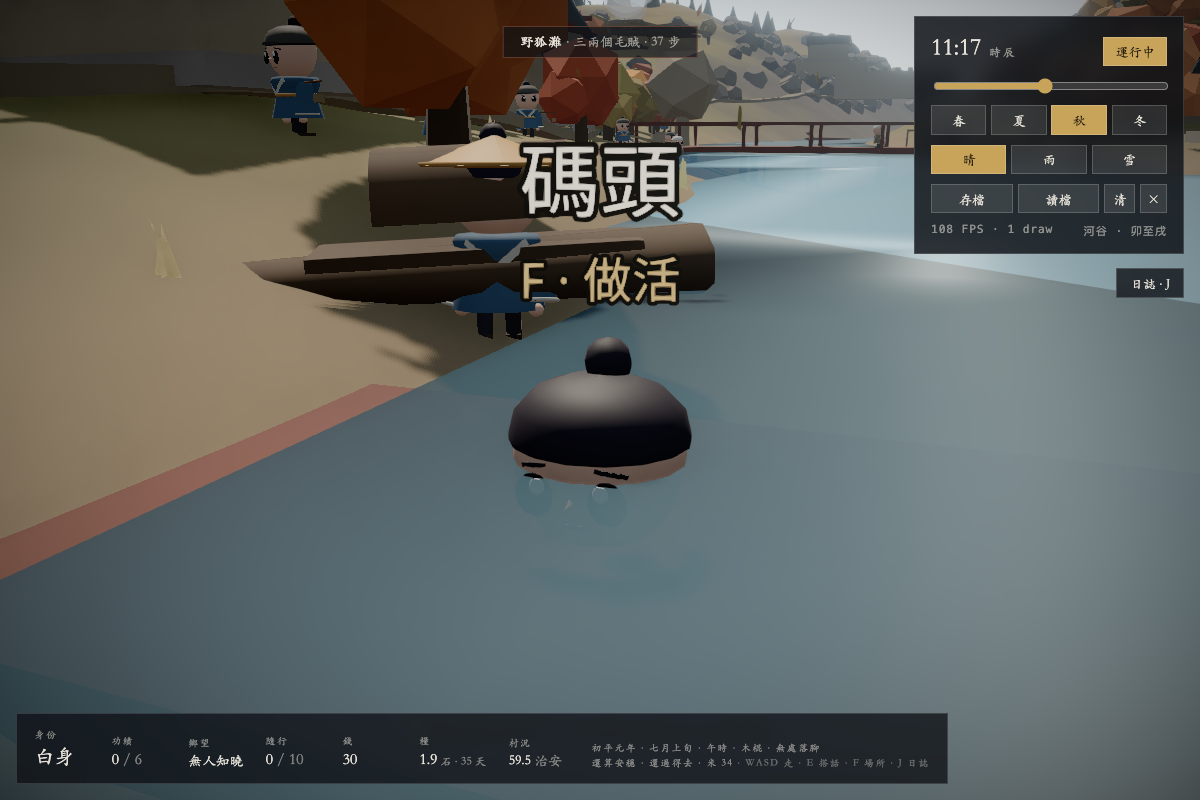
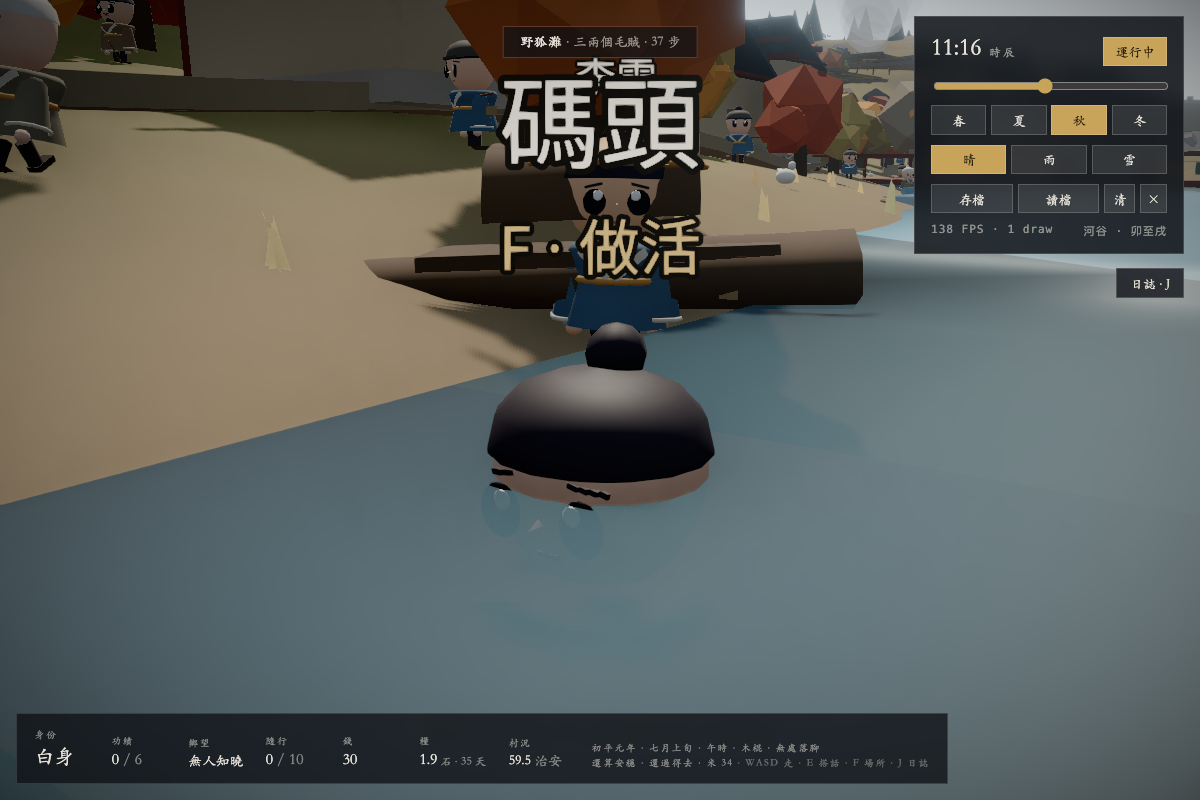
臉不再是同一張:每人一個膚色,眼距眉高嘴寬按種子微調
髮式衣色都分開了,可是四十張臉一個色 —— 遠看還是一批人。膚色是「複製人」感裡
最說不出所以然的一條:你講不出哪裡不對,但就是覺得他們是同一個模子。

- SKINS 五個色是同一族的深淺。下田扛包的曬得黑、市面上的白些、老人褪成灰黃,
  順帶把「行當寫在身上」延伸到臉上。賊比村民黑一號。
- 陰面(鼻樑側、耳廓)從膚色壓下來,不另配一個色 —— 兩邊各配一次遲早調得不一樣。
- 臉的種子(0..1)推四個微調量:眼距、眼大小、眉高、嘴寬。幅度都很小,
  因為這副臉的骨架是固定的 —— 差別要小到「說不出哪裡不一樣,但就是不同的人」。

膚色要一路帶到 bodyGeom(脖子)和 armGeom(手),不然臉是一個色、手是另一個。
八種變體八張臉 —— 不是四十張,但比一張強得多,而且不必為此把 InstancedMesh
拆成四十份。縣城的八個人、隨行的、陣上的三種都各自分開了。

Changed region(s): [[0.0, 0.0, 1.0, 0.7188], [0.8942, 0.0, 1.0, 0.25]]

diff --git a/src/world/figure.ts b/src/world/figure.ts
@@ -13,7 +13,21 @@ import { mergeGeometries } from 'three/examples/jsm/utils/BufferGeometryUtils.js
 
 export const ROBES = ['#4a6b52', '#6b5741', '#3f5568', '#6a6350'];
 const SKIN = new THREE.Color('#e8b494');
-const SKIN_D = new THREE.Color('#cf9878');       // 鼻樑側面、耳廓的陰面
+
+/**
+ * 膚色。
+ *
+ * 一整村同一張臉皮,是「複製人」感裡最說不出所以然的一條 ——
+ * 髮式衣色都不同了,可是四十張臉一個色,遠看還是一批人。
+ * 這幾個色是同一族的深淺:下田扛包的曬得黑,市面上的白些,
+ * 老人褪成灰黃 —— 順帶把「行當寫在身上」延伸到臉上。
+ */
+export const SKINS = ['#e8b494', '#dca97f', '#c9905f', '#efc0a3', '#d3a887'];
+
+/** 陰面(鼻樑側、耳廓)—— 從膚色壓下來,不另配一個色,免得兩邊調得不一樣。 */
+function shade(skin: THREE.Color): THREE.Color {
+  return skin.clone().multiplyScalar(0.78);
+}
 const HAIR = new THREE.Color('#241e26');
 const INK = new THREE.Color('#161018');
 export const TRIM = new THREE.Color('#b8863c');
@@ -258,7 +272,7 @@ function collarColor(robe: THREE.Color): THREE.Color {
  * 一條手臂 —— 原點在<b>肩</b>,往下垂。
  * 廣袖、袖緣、露在袖口外的手,一份幾何全帶著。
  */
-export function armGeom(robe: THREE.Color): THREE.BufferGeometry {
+export function armGeom(robe: THREE.Color, skin: THREE.Color = SKIN): THREE.BufferGeometry {
   const gs: THREE.BufferGeometry[] = [];
   const edge = collarColor(robe);
   gs.push(tint(at(lathe(SLEEVE_P, FIG_HR, ARM_L, 8), 0, -ARM_L, 0), robe));
@@ -268,7 +282,7 @@ export function armGeom(robe: THREE.Color): THREE.BufferGeometry {
   // 手擺在中軸上(不左右偏):一份幾何兩邊共用,偏了就得鏡像,
   // 而負縮放會把三角形的繞序翻過來,整條手臂的光就錯了
   gs.push(tint(at(new THREE.SphereGeometry(FIG_HR * 0.17, 7, 6),
-    0, FIG_HAND[1], FIG_HAND[2], 1, 0.9, 1.05), SKIN));
+    0, FIG_HAND[1], FIG_HAND[2], 1, 0.9, 1.05), skin));
   return mergeGeometries(gs, false)!;
 }
 
@@ -291,7 +305,7 @@ export function poseArm(
   o.scale.setScalar(scale);
 }
 
-export function bodyGeom(robe: THREE.Color) {
+export function bodyGeom(robe: THREE.Color, skin: THREE.Color = SKIN) {
   const gs: THREE.BufferGeometry[] = [];
   /*
    * 衣緣是<b>淺色</b>的,不是把袍色壓暗。
@@ -346,7 +360,7 @@ export function bodyGeom(robe: THREE.Color) {
 
   // 袖子不在這裡 —— 見 armGeom:會擺動的東西不能烘進身子
   gs.push(tint(at(new THREE.CylinderGeometry(FIG_HR * 0.32, FIG_HR * 0.32, FIG_HR * 0.40, 8),
-    0, FIG_BODY_H * 0.99, 0), SKIN));
+    0, FIG_BODY_H * 0.99, 0), skin));
   return mergeGeometries(gs, false)!;
 }
 
@@ -403,6 +417,13 @@ function faceStrip(o: {
  * 三十八個村民要是共用兩種頭,那不是一個村子,是一批複製人。
  */
 export interface HeadStyle {
+  /** 這個人的膚色。不給就用預設那一個。 */
+  skin?: THREE.Color;
+  /**
+   * 這張臉的種子(0..1)。眼距、眼大小、眉高、嘴寬按它微調 ——
+   * 同一副幾何,換一個數字就是另一個人。
+   */
+  face?: number;
   /** 斗笠 —— 下田扛包的戴。 */
   hat?: boolean;
   /** 白髮。 */
@@ -414,12 +435,22 @@ export interface HeadStyle {
 }
 
 export function headGeom(style: HeadStyle = {}) {
-  const { hat = false, old: oldHair = false, cloth = false, beard = false } = style;
+  const {
+    hat = false, old: oldHair = false, cloth = false, beard = false,
+    skin = SKIN, face = 0.5,
+  } = style;
+  const SKIN_D = shade(skin);
+  // 種子推出四個微調量。幅度都很小 —— 這副臉的骨架是固定的,
+  // 差別要小到「說不出哪裡不一樣,但就是不同的人」
+  const fGap = 0.40 + face * 0.06;              // 眼距
+  const fEye = 0.94 + face * 0.14;              // 眼大小
+  const fBrow = 0.19 + face * 0.07;             // 眉高
+  const fMouth = 0.17 + face * 0.07;            // 嘴寬
   const gs: THREE.BufferGeometry[] = [];
   const HAIR_C = oldHair ? new THREE.Color('#d6d0c4') : HAIR;
   const cy = FIG_HR * 0.84;
   const R = FIG_HR;
-  gs.push(tint(at(lathe(HEAD_P, R, R, 16), 0, cy, 0, 1, 1, FACE_SQUASH), SKIN));
+  gs.push(tint(at(lathe(HEAD_P, R, R, 16), 0, cy, 0, 1, 1, FACE_SQUASH), skin));
 
   /*
    * 五官的深度<b>從臉皮算,不是憑感覺</b>。
@@ -431,11 +462,11 @@ export function headGeom(style: HeadStyle = {}) {
    * 現在的規矩:先算這一件的半深,再讓它<b>只凸出 proud 那麼多</b>,
    * 其餘埋進臉裡。凸多少是一個看得懂的數字,而不是兩個座標湊出來的結果。
    */
-  const EYE_R = R * 0.225;
+  const EYE_R = R * 0.225 * fEye;
   const EYE_FLAT = 0.16;                       // 眼球壓扁到只剩這麼厚
   const eyeHalf = EYE_R * EYE_FLAT;
   for (const side of [-1, 1]) {
-    const ex = side * R * 0.42;
+    const ex = side * R * fGap;
     // 凸 0.02R:看得出是一顆球,又不至於頂出臉的側影
     gs.push(tint(at(new THREE.SphereGeometry(EYE_R, 10, 7),
       ex, cy - R * 0.10, faceZ(-0.10, R * 0.02 - eyeHalf), 1, 1.12, EYE_FLAT), INK));
@@ -444,7 +475,7 @@ export function headGeom(style: HeadStyle = {}) {
       new THREE.Color('#f2f0ea')));
     // 眉 —— 外高內低斜著一撇。<b>切成三小段</b>,一段一段貼上去
     gs.push(tint(faceStrip({
-      x: ex + side * R * 0.02, y: cy + R * (oldHair ? 0.25 : 0.22), py: 0.22,
+      x: ex + side * R * 0.02, y: cy + R * (oldHair ? fBrow + 0.03 : fBrow), py: 0.22,
       w: R * (oldHair ? 0.36 : 0.30), h: R * 0.052, d: R * 0.042,
       tilt: side * -0.22, R,
     }), oldHair ? new THREE.Color('#8e867c') : BROW));
@@ -453,7 +484,7 @@ export function headGeom(style: HeadStyle = {}) {
      * 而且要<b>貼著頭</b>:第一版擺在 0.97R、又往外撐,整隻耳朵浮在頭外面。
      */
     gs.push(tint(at(new THREE.SphereGeometry(R * 0.155, 6, 5),
-      side * R * 0.90, cy - R * 0.05, R * 0.03, 0.34, 1.05, 0.80), SKIN));
+      side * R * 0.90, cy - R * 0.05, R * 0.03, 0.34, 1.05, 0.80), skin));
     gs.push(tint(at(new THREE.SphereGeometry(R * 0.06, 5, 4),
       side * R * 0.95, cy - R * 0.05, R * 0.03, 0.30, 0.90, 0.55), SKIN_D));
   }
@@ -476,11 +507,11 @@ export function headGeom(style: HeadStyle = {}) {
    * 不能靠往上貼深色的小零件。
    */
   gs.push(tint(at(rot(new THREE.ConeGeometry(R * 0.115, R * 0.38, 3), -Math.PI * 0.56, 0, 0),
-    0, cy - R * 0.12, faceZ(-0.12, -R * 0.045)), SKIN));
+    0, cy - R * 0.12, faceZ(-0.12, -R * 0.045)), skin));
   // 口 —— 一道短橫,細而不豔。不畫笑也不畫哭,留白比表情耐看
   gs.push(tint(faceStrip({
     x: 0, y: cy - R * 0.46, py: -0.46,
-    w: R * 0.20, h: R * 0.042, d: R * 0.045, tilt: 0, R,
+    w: R * fMouth, h: R * 0.042, d: R * 0.045, tilt: 0, R,
   }), LIP));
 
   /*

diff --git a/src/world/Crowd.tsx b/src/world/Crowd.tsx
@@ -3,7 +3,7 @@ import { useFrame } from '@react-three/fiber';
 import * as THREE from 'three';
 import { groundAt, rng, slideMove, dryLandNear } from './field';
 import {
-  bodyGeom, headGeom, legGeom, legSwing, poseLeg, armGeom, armSwing, poseArm, workPose, toolGeom,
+  bodyGeom, headGeom, legGeom, legSwing, poseLeg, armGeom, armSwing, poseArm, workPose, toolGeom, SKINS,
   FIG_BODY_H, FIG_LEG_H, FIG_SHOULDER_Y,
 } from './figure';
 import { houseSites, fieldSites, meanderAt, DOCKS, BRIDGE, MARKET } from './sites';
@@ -164,10 +164,16 @@ export function Crowd() {
       { robe: '#4a6b52', head: { cloth: true, beard: true } },
       { robe: '#6a6350', head: { old: true, cloth: true } },
     ].map((v, i) => ({
-      body: bodyGeom(new THREE.Color(v.robe)),
-      head: headGeom(v.head),
+      // 膚色與臉型跟著變體走。八種變體八張臉 —— 不是四十張,
+      // 但比一張強得多,而且不必為此把 InstancedMesh 拆成四十份
+      body: bodyGeom(new THREE.Color(v.robe), new THREE.Color(SKINS[i % SKINS.length])),
+      head: headGeom({
+        ...v.head,
+        skin: new THREE.Color(SKINS[i % SKINS.length]),
+        face: ((i * 5 + 3) % 8) / 7,
+      }),
       leg: legGeom(),
-      arm: armGeom(new THREE.Color(v.robe)),
+      arm: armGeom(new THREE.Color(v.robe), new THREE.Color(SKINS[i % SKINS.length])),
       // 傢伙跟著行當走。變體 0/4 是農、1/5 是埠,其餘手上沒東西
       tool: toolGeom(i % 4 === 0 ? 'farm' : i % 4 === 1 ? 'dock' : 'none'),
       idx: agents.map((a, k) => (a.variant === i ? k : -1)).filter((k) => k >= 0),

diff --git a/src/world/Battle.tsx b/src/world/Battle.tsx
@@ -4,7 +4,7 @@ import * as THREE from 'three';
 import { mergeGeometries } from 'three/examples/jsm/utils/BufferGeometryUtils.js';
 import { groundAt, slideMove } from './field';
 import {
-  bodyGeom, headGeom, armGeom, FIG_BODY_H, FIG_HIP, FIG_LEG_H,
+  bodyGeom, headGeom, armGeom, SKINS, FIG_BODY_H, FIG_HIP, FIG_LEG_H,
   FIG_SHOULDER_X, FIG_SHOULDER_Y, FIG_HAND,
 } from './figure';
 import { sharedLegGeom } from './Legs';
@@ -116,12 +116,12 @@ export function Battle() {
   );
 
   const geoms = useMemo(() => ({
-    foe: { body: bodyGeom(new THREE.Color(FOE_ROBE)), head: headGeom({ cloth: true }),
+    foe: { body: bodyGeom(new THREE.Color(FOE_ROBE)), head: headGeom({ cloth: true, skin: new THREE.Color(SKINS[2]), face: 0.2 }),
            arm: armGeom(new THREE.Color(FOE_ROBE)) },
     chief: { body: bodyGeom(new THREE.Color(FOE_CHIEF_ROBE)),
-             head: headGeom({ hat: true, beard: true }),
+             head: headGeom({ hat: true, beard: true, skin: new THREE.Color(SKINS[1]), face: 0.9 }),
              arm: armGeom(new THREE.Color(FOE_CHIEF_ROBE)) },
-    mate: { body: bodyGeom(new THREE.Color('#6b5741')), head: headGeom(),
+    mate: { body: bodyGeom(new THREE.Color('#6b5741')), head: headGeom({ face: 0.6 }),
             arm: armGeom(new THREE.Color('#6b5741')) },
   }), []);
 

diff --git a/src/world/CountyFolk.tsx b/src/world/CountyFolk.tsx
@@ -2,7 +2,7 @@ import { useEffect, useMemo, useRef } from 'react';
 import { useFrame } from '@react-three/fiber';
 import * as THREE from 'three';
 import { groundAt, steerMove } from './field';
-import { bodyGeom, headGeom, FIG_BODY_H, ROBES } from './figure';
+import { bodyGeom, headGeom, FIG_BODY_H, ROBES, SKINS } from './figure';
 import { StandingLegs, StandingArms } from './Legs';
 import { COUNTY } from './County';
 import { COUNTY_FOLK } from '../game/countyfolk';
@@ -44,10 +44,12 @@ export function CountyFolk() {
   ], [cx, cz]);
 
   const geoms = useMemo(() => COUNTY_FOLK.map((p, i) => ({
-    body: bodyGeom(new THREE.Color(ROBES[i % ROBES.length])),
+    body: bodyGeom(new THREE.Color(ROBES[i % ROBES.length]),
+      new THREE.Color(SKINS[(i * 3) % SKINS.length])),
     head: headGeom({
       hat: p.trade === 'market' && p.age > 40,
       old: p.age > 55, cloth: i % 3 === 0, beard: p.age > 44,
+      skin: new THREE.Color(SKINS[(i * 3) % SKINS.length]), face: (i % 7) / 6,
     }),
   })), []);
 

diff --git a/src/world/Followers.tsx b/src/world/Followers.tsx
@@ -3,7 +3,7 @@ import { useFrame } from '@react-three/fiber';
 import * as THREE from 'three';
 import { groundAt, slideMove } from './field';
 import {
-  ROBES, bodyGeom, headGeom, legSwing, poseLeg, armSwing, poseArm,
+  ROBES, SKINS, bodyGeom, headGeom, legSwing, poseLeg, armSwing, poseArm,
   FIG_BODY_H, FIG_LEG_H, FIG_SHOULDER_Y,
 } from './figure';
 import { sharedLegGeom, sharedArmGeom } from './Legs';
@@ -49,8 +49,11 @@ export function Followers() {
 
   const geoms = useMemo(
     () => ROBES.map((hex, i) => ({
-      body: bodyGeom(new THREE.Color(hex)),
-      head: headGeom({ hat: i % 2 === 1, cloth: i % 3 === 1, beard: i % 4 === 2 }),
+      body: bodyGeom(new THREE.Color(hex), new THREE.Color(SKINS[(i * 2 + 1) % SKINS.length])),
+      head: headGeom({
+        hat: i % 2 === 1, cloth: i % 3 === 1, beard: i % 4 === 2,
+        skin: new THREE.Color(SKINS[(i * 2 + 1) % SKINS.length]), face: (i % 5) / 4,
+      }),
     })),
     [],
   );
